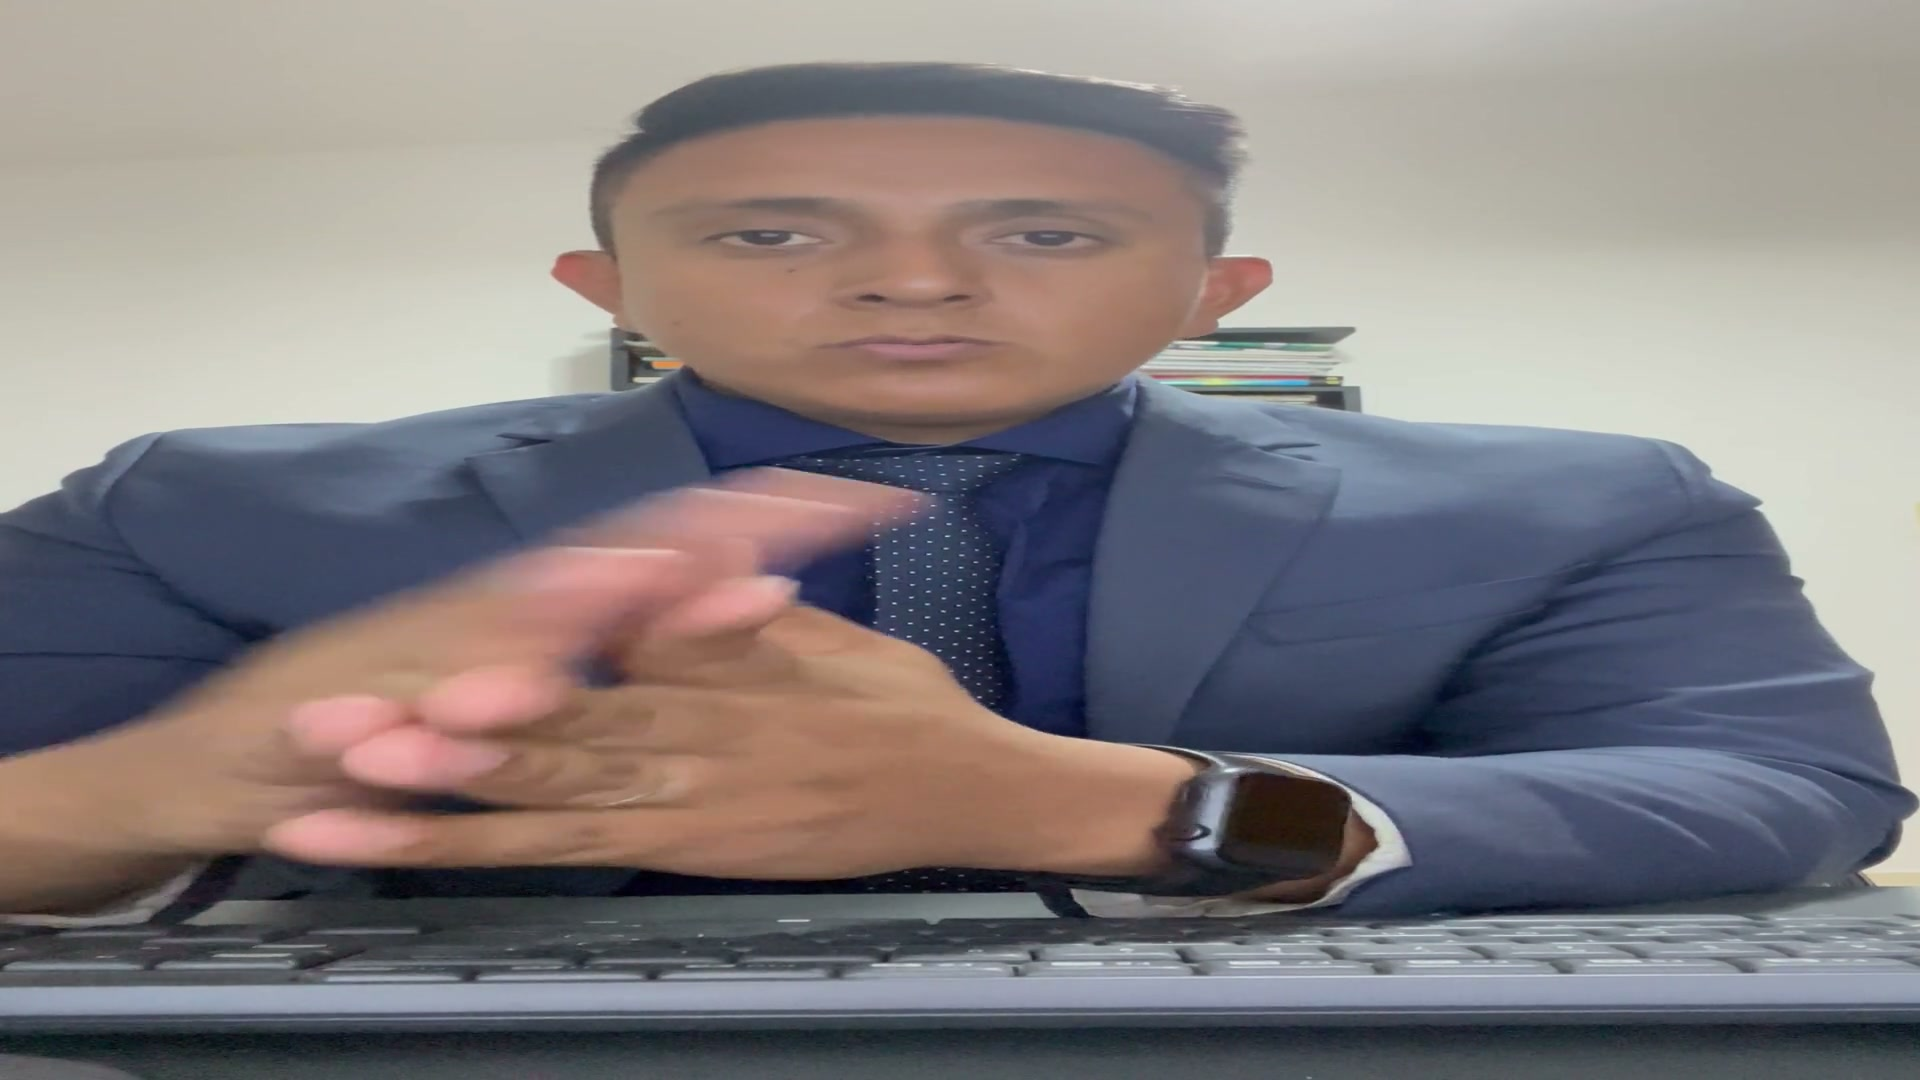
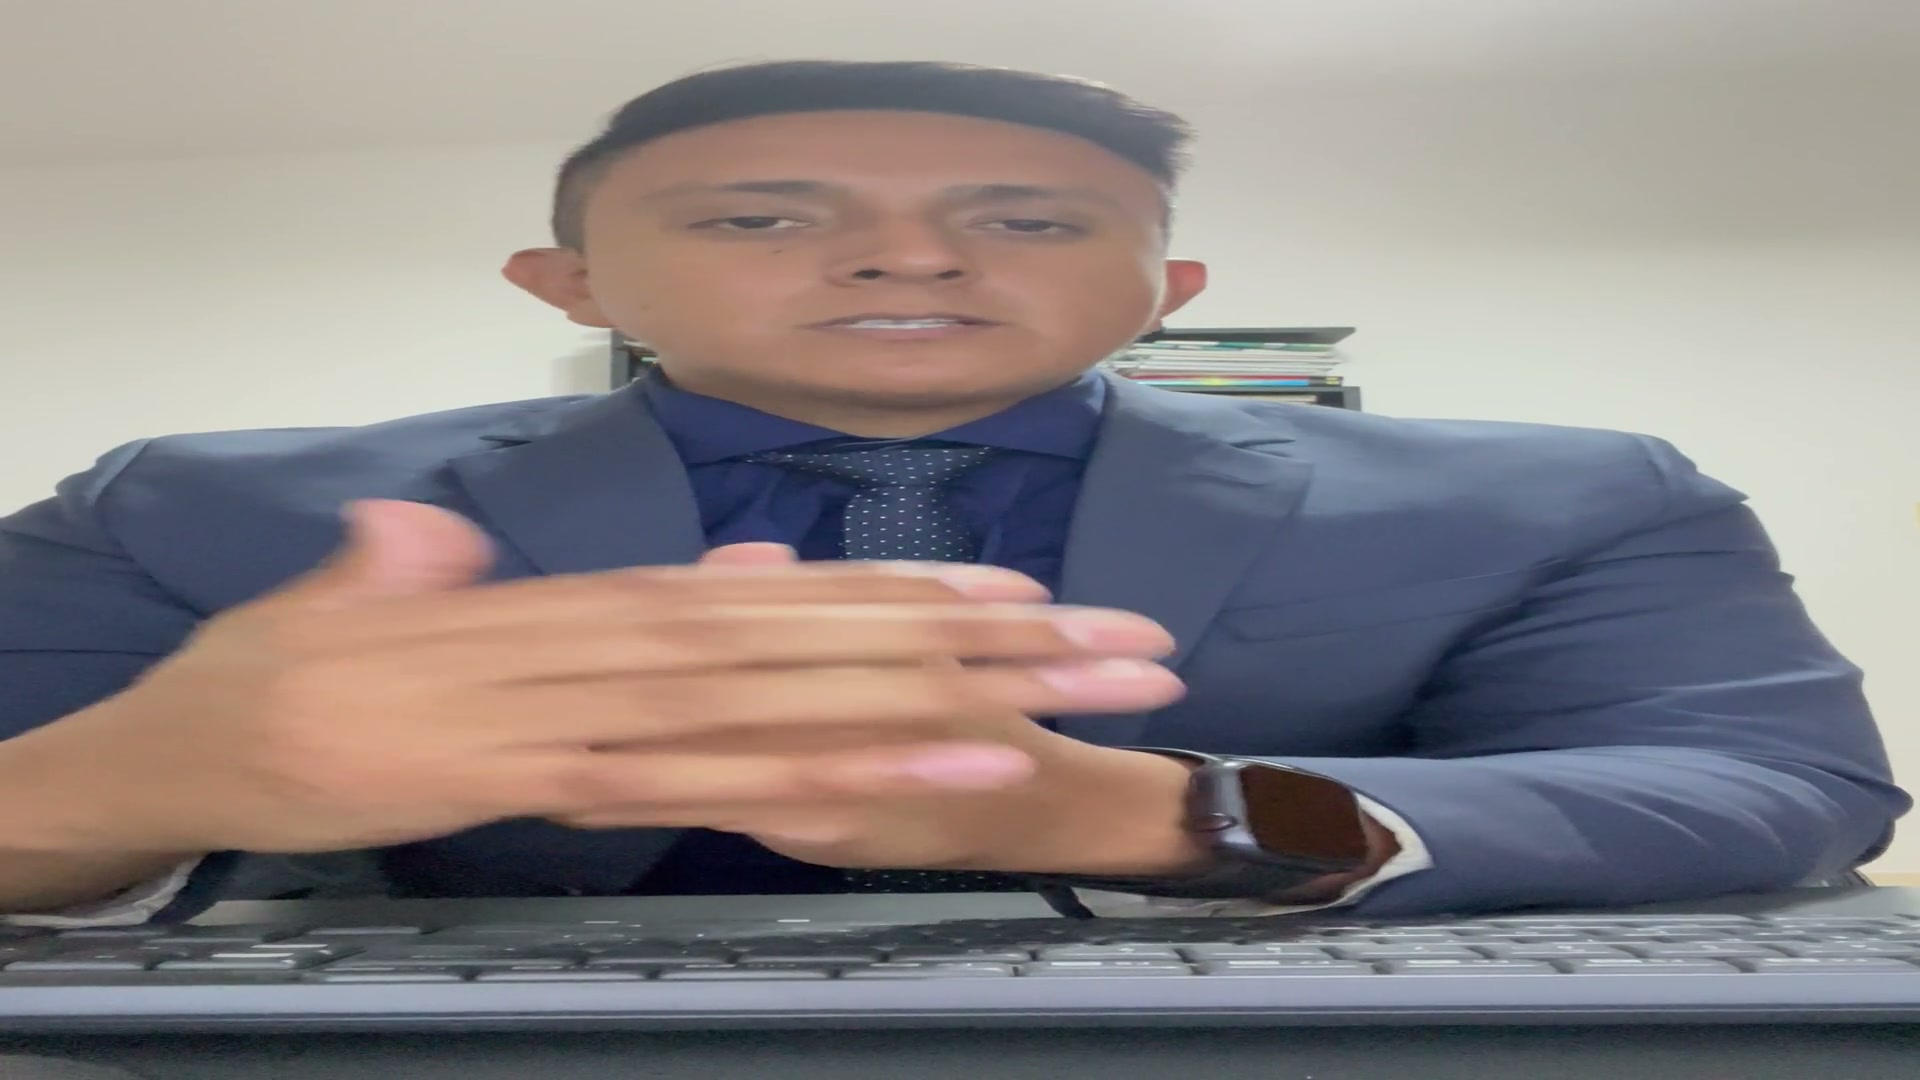
fix(empresa): asimetría en el caso de Centro Jurídico NOA — video vs texto de altura muy distinta
El video (16:9) quedaba mucho más bajo que el bloque de texto al lado,
dejando un hueco enorme debajo. Reestructura la sección: título +
video centrado a ancho completo arriba, historia + checklist en dos
columnas parejas abajo (en vez de texto largo contra video corto).
También centra verticalmente el video vertical del estudio contra su
texto (antes quedaba desalineado) y cambia el poster del testimonio
por un frame con mejor encuadre.

diff --git a/src/app/empresa/testimonios/page.tsx b/src/app/empresa/testimonios/page.tsx
@@ -31,12 +31,31 @@ export default function TestimoniosPage() {
         </div>
       </section>
 
-      {/* ── Caso: testimonio en video ── */}
+      {/* ── Caso: Centro Jurídico NOA ── */}
       <div className={s.band}>
-        <div className={s.bandGrid}>
-          <div className={`${s.reveal}`} data-reveal="">
+        <div className={s.inner}>
+          <div className={`${s.sectionLockup} ${s.reveal}`} data-reveal="" style={{ marginBottom: 48, maxWidth: 760 }}>
             <p className={s.bandNum}>Centro Jurídico NOA · Jujuy, Argentina</p>
-            <h2 className={s.bandTitle}>Excel, Notion, Calendar y WhatsApp.<br /><em>Ahora, una sola pantalla.</em></h2>
+            <h2 className={s.sectionTitle}>Excel, Notion, Calendar y WhatsApp.<br /><em>Ahora, una sola pantalla.</em></h2>
+          </div>
+
+          <div className={`${s.reveal} ${s.revealDelay1}`} data-reveal="" style={{ maxWidth: 760, margin: '0 auto 64px' }}>
+            <div className={s.glowCard}>
+              <span className={s.glowCardBadge}>Testimonio real</span>
+              <div className={s.glowCardInner}>
+                <LogoVideo
+                  src="/testimonios/noa-testimonio.mp4"
+                  poster="/testimonios/noa-testimonio-poster.jpg"
+                  rounded={false}
+                />
+              </div>
+            </div>
+            <p className={s.bandNum} style={{ margin: '20px 0 0', textAlign: 'center' }}>Rodrigo Reyes — Centro Jurídico NOA</p>
+          </div>
+        </div>
+
+        <div className={s.bandGrid}>
+          <div className={`${s.reveal} ${s.revealDelay2}`} data-reveal="">
             <p className={s.bandBody}>
               Centro Jurídico NOA llevaba cada caso en Excel, coordinaba al equipo por WhatsApp,
               agendaba en Google Calendar y guardaba notas en Notion. Cuatro herramientas, cuatro
@@ -48,8 +67,10 @@ export default function TestimoniosPage() {
               procuradores, y las finanzas del estudio — mensuales, gastos, salidas y cobros —
               controladas desde el mismo lugar donde se gestiona el caso.
             </p>
+          </div>
 
-            <ul style={{ listStyle: 'none', margin: '24px 0 0', padding: 0, display: 'flex', flexDirection: 'column', gap: 10 }}>
+          <div className={`${s.reveal} ${s.revealDelay2}`} data-reveal="">
+            <ul style={{ listStyle: 'none', margin: 0, padding: 0, display: 'flex', flexDirection: 'column', gap: 14 }}>
               {[
                 'Gestión de casos por abogado',
                 'Tareas asignadas a empleados, secretaría y procuradores',
@@ -71,20 +92,6 @@ export default function TestimoniosPage() {
                 Probar el agente en desarrollo <ArrowRight size={15} />
               </Link>
             </div>
-          </div>
-
-          <div className={`${s.bandRight} ${s.reveal} ${s.revealDelay1}`} data-reveal="">
-            <div className={s.glowCard}>
-              <span className={s.glowCardBadge}>Testimonio real</span>
-              <div className={s.glowCardInner}>
-                <LogoVideo
-                  src="/testimonios/noa-testimonio.mp4"
-                  poster="/testimonios/noa-testimonio-poster.jpg"
-                  rounded={false}
-                />
-              </div>
-            </div>
-            <p className={s.bandNum} style={{ margin: '20px 0 0' }}>Rodrigo Reyes — Centro Jurídico NOA</p>
           </div>
         </div>
       </div>
@@ -120,9 +127,9 @@ export default function TestimoniosPage() {
 
       {/* ── El estudio, por fuera ── */}
       <div className={s.band}>
-        <div className={`${s.bandGrid} ${s.bandGridFlip}`}>
+        <div className={`${s.bandGrid} ${s.bandGridFlip}`} style={{ alignItems: 'center' }}>
           <div className={`${s.bandRight} ${s.reveal}`} data-reveal="" style={{ display: 'flex', justifyContent: 'center' }}>
-            <div className={s.glowCard} style={{ maxWidth: 280 }}>
+            <div className={s.glowCard} style={{ maxWidth: 220 }}>
               <div className={s.glowCardInner} style={{ aspectRatio: '9/16' }}>
                 <AutoplayVideo
                   src="/testimonios/noa-demo.mp4"
